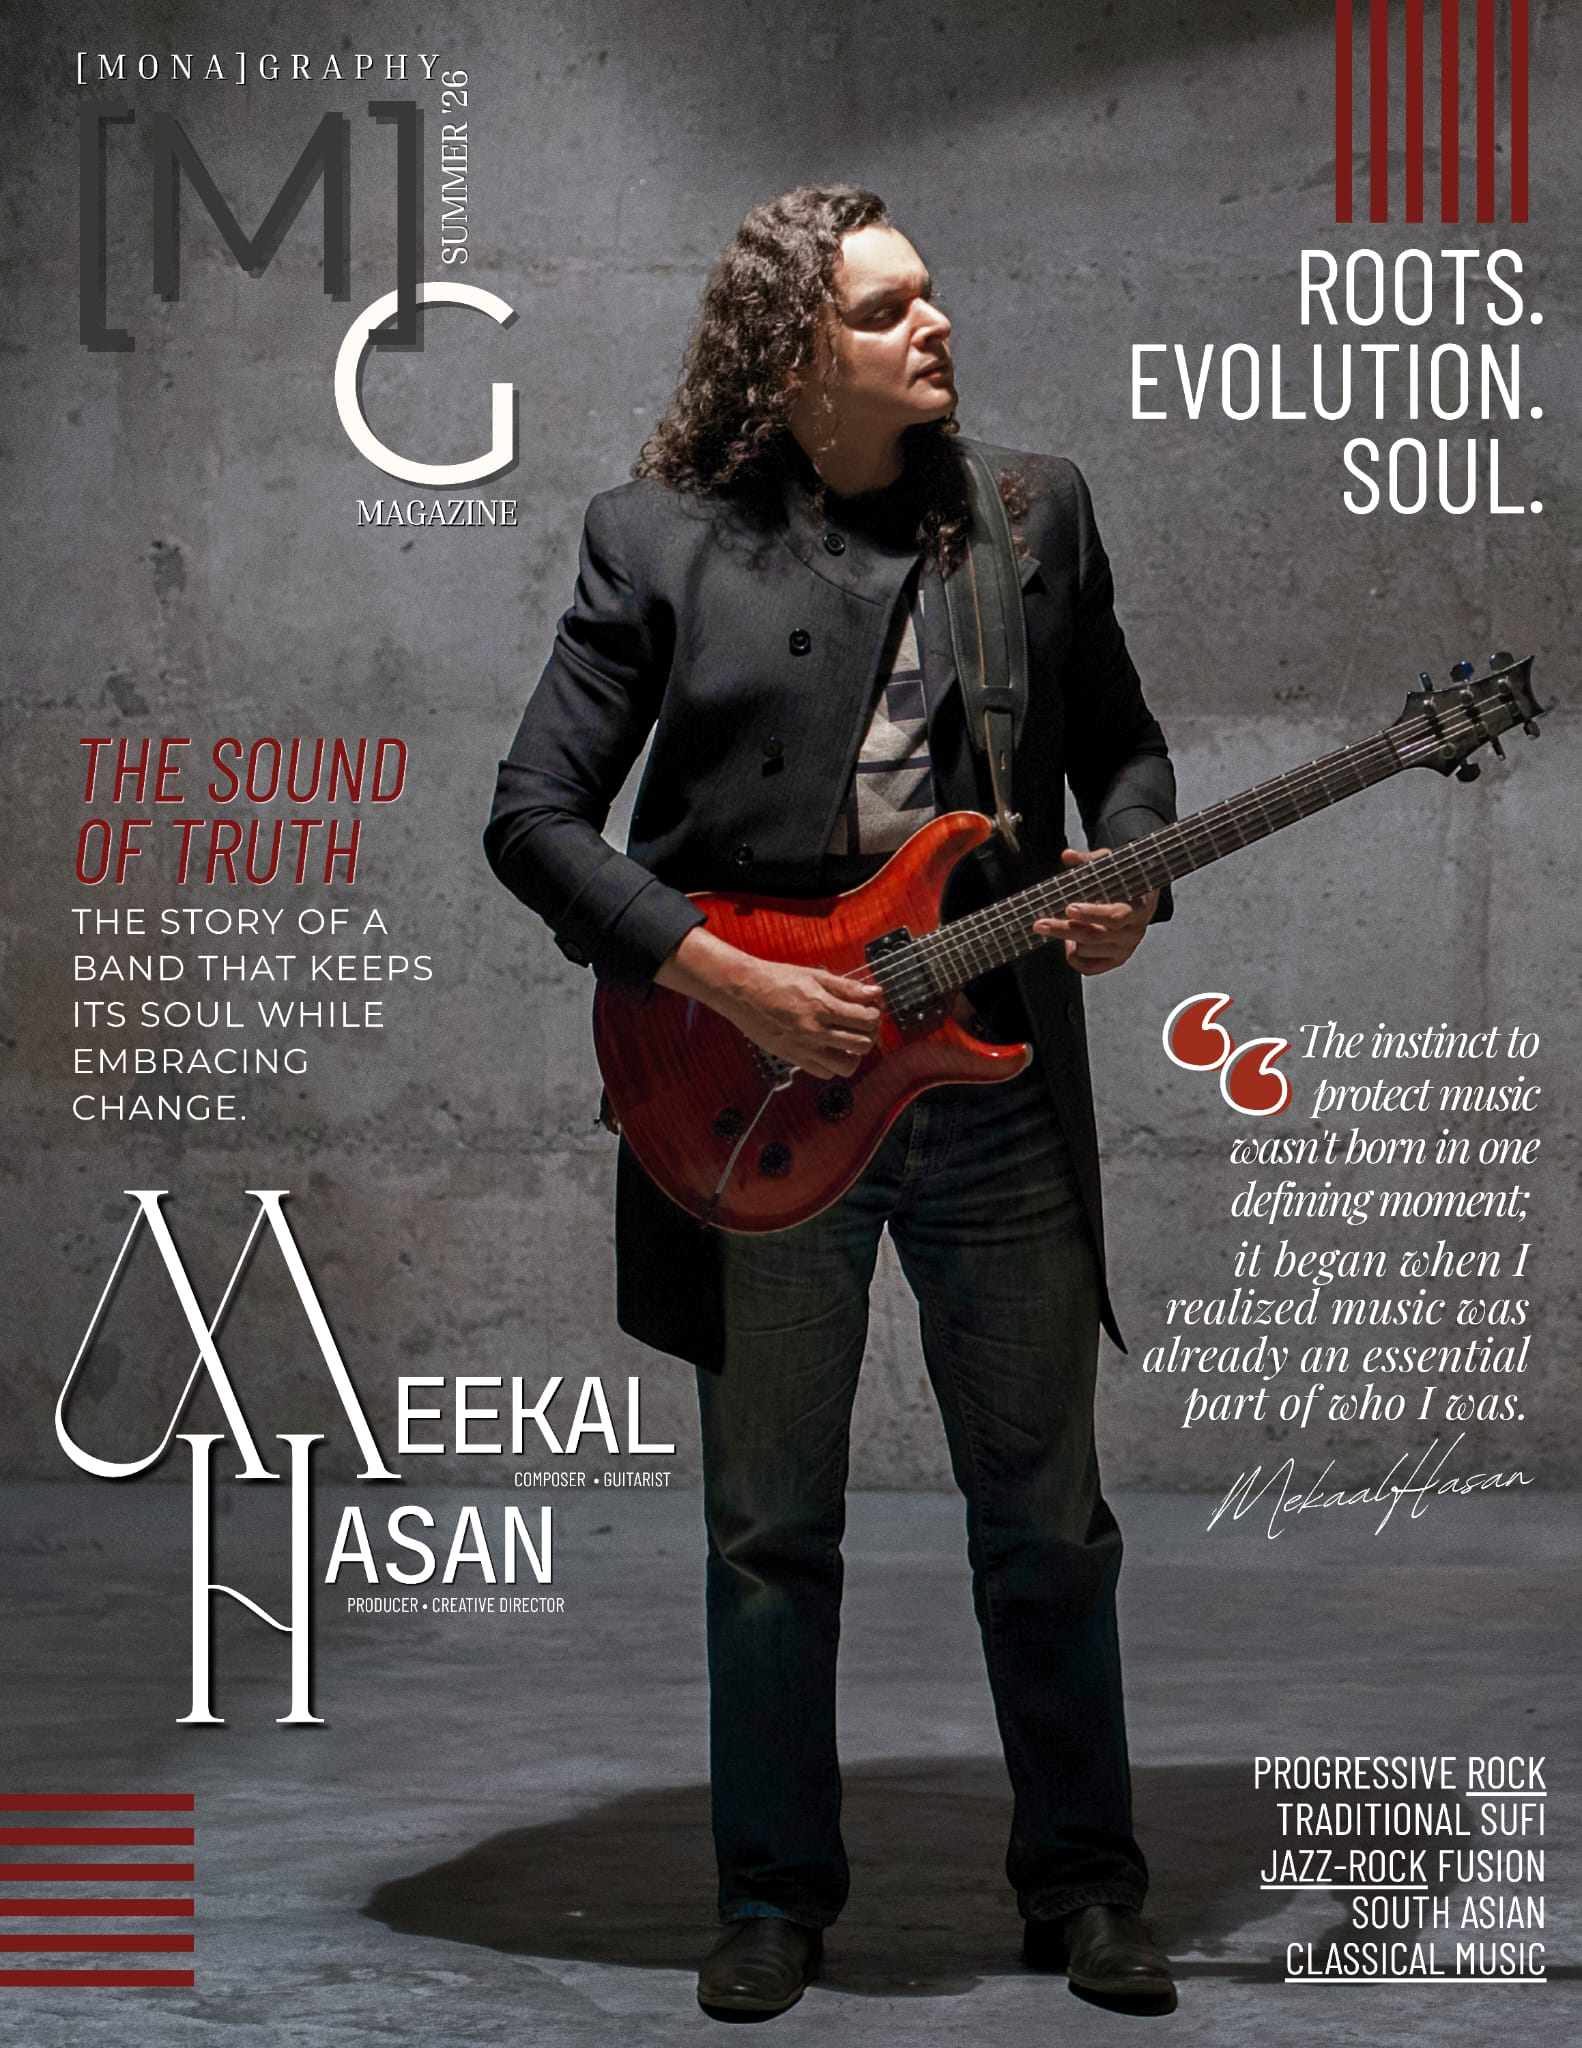
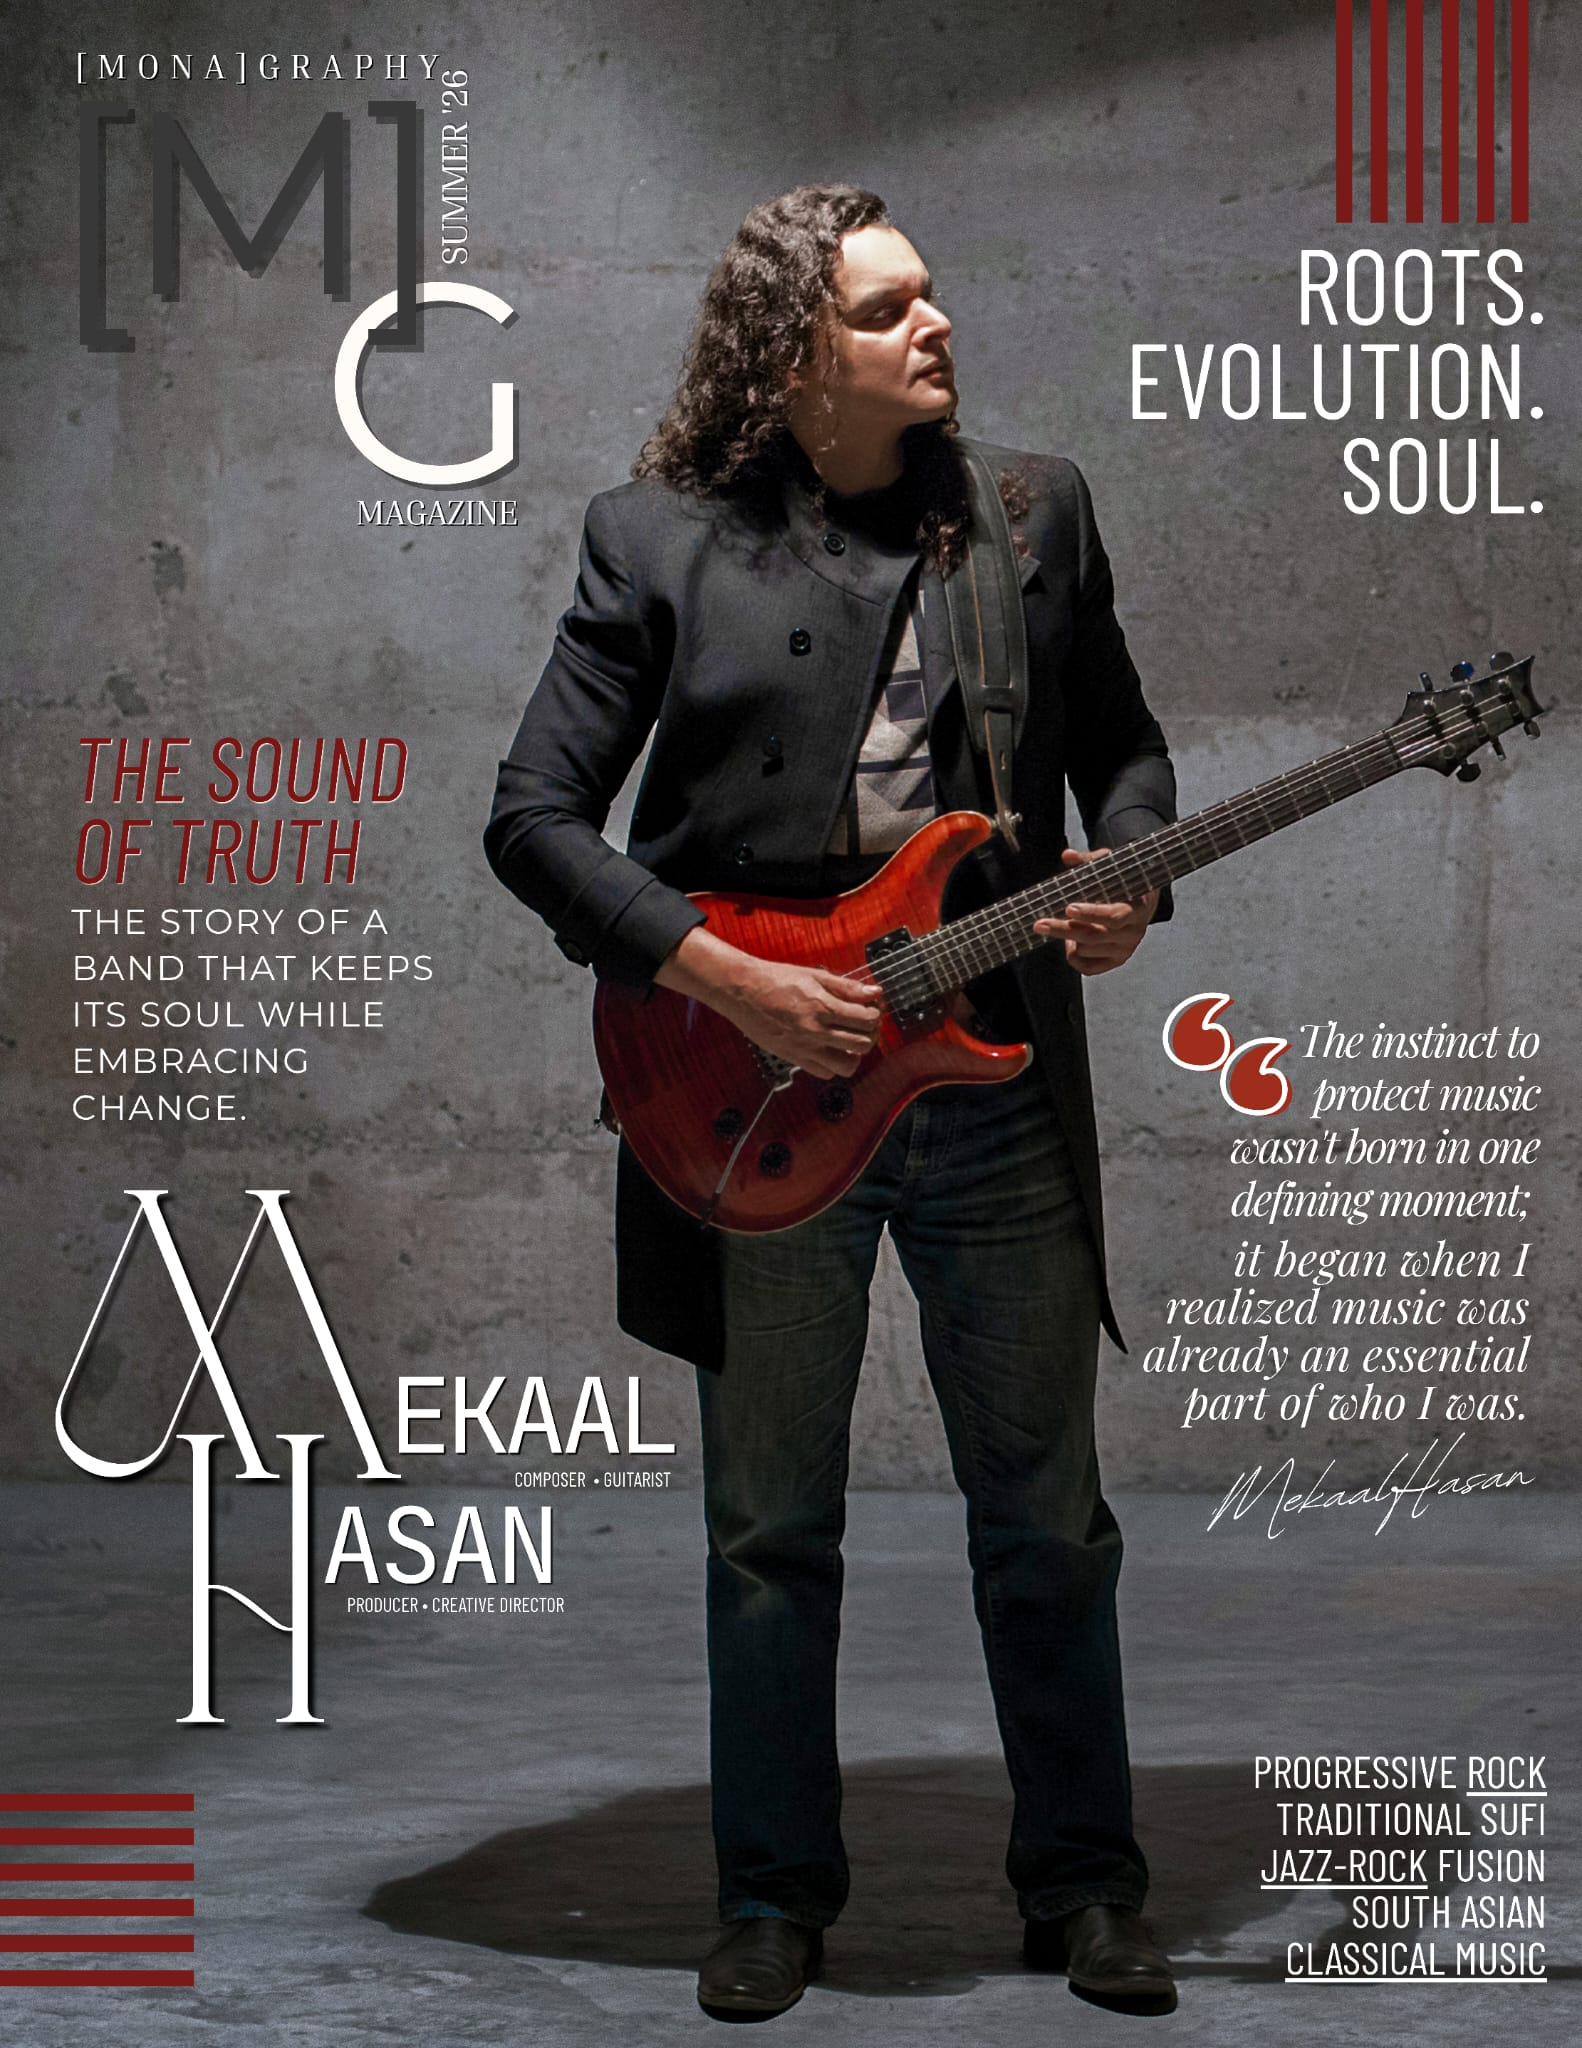
Update

diff --git a/entertainment.html b/entertainment.html
@@ -293,7 +293,7 @@
                                         <div class="main-text text-size-xsmall">Septemer 01, 2026</div>
                                     </div>
                                     <div class="spacer-x-small"></div>
-                                    <p data-w-id="1841030f-0f6f-3088-6684-d6f43a8212b2" style="-webkit-transform:translate3d(0, 20px, 0) scale3d(1, 1, 1) rotateX(0) rotateY(0) rotateZ(0) skew(0, 0);-moz-transform:translate3d(0, 20px, 0) scale3d(1, 1, 1) rotateX(0) rotateY(0) rotateZ(0) skew(0, 0);-ms-transform:translate3d(0, 20px, 0) scale3d(1, 1, 1) rotateX(0) rotateY(0) rotateZ(0) skew(0, 0);transform:translate3d(0, 20px, 0) scale3d(1, 1, 1) rotateX(0) rotateY(0) rotateZ(0) skew(0, 0);opacity:0" class="slide-from-bottom-0-4">Your story is a beautiful reminder that sometimes an unexpected turn can lead us exactly where we are meant to be. From following your passion for dance to inspiring a generation of dancers and creators, your journey reflects courage, dedication, and an unwavering love for the art.</p>
+                                    <p data-w-id="1841030f-0f6f-3088-6684-d6f43a8212b2" style="-webkit-transform:translate3d(0, 20px, 0) scale3d(1, 1, 1) rotateX(0) rotateY(0) rotateZ(0) skew(0, 0);-moz-transform:translate3d(0, 20px, 0) scale3d(1, 1, 1) rotateX(0) rotateY(0) rotateZ(0) skew(0, 0);-ms-transform:translate3d(0, 20px, 0) scale3d(1, 1, 1) rotateX(0) rotateY(0) rotateZ(0) skew(0, 0);transform:translate3d(0, 20px, 0) scale3d(1, 1, 1) rotateX(0) rotateY(0) rotateZ(0) skew(0, 0);opacity:0" class="slide-from-bottom-0-4">[Mona]graphy Magazine is proud to feature Mekaal Hasan; the visionary behind Mekaal Hasan Band, whose fearless fusion of jazz, rock, classical, and South Asian tradition has shaped a legacy that continues to echo across generations.</p>
                                     <div class="spacer-x-small"></div>
                                     <div class="align-right">
                                         <a onclick="openFlipbook('mekaal_hasan_flipbookModal', 'mekaal_hasan_flipbook')" class="primary-button w-inline-block">
